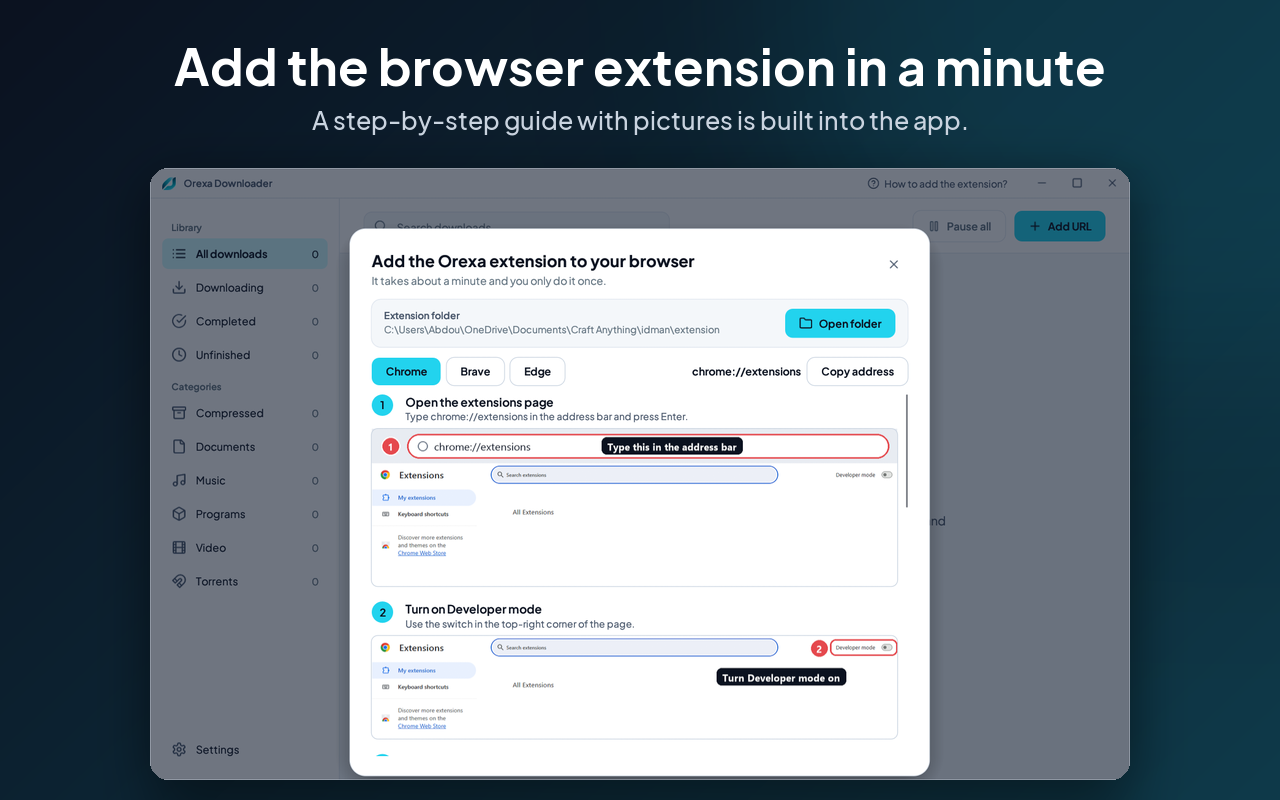
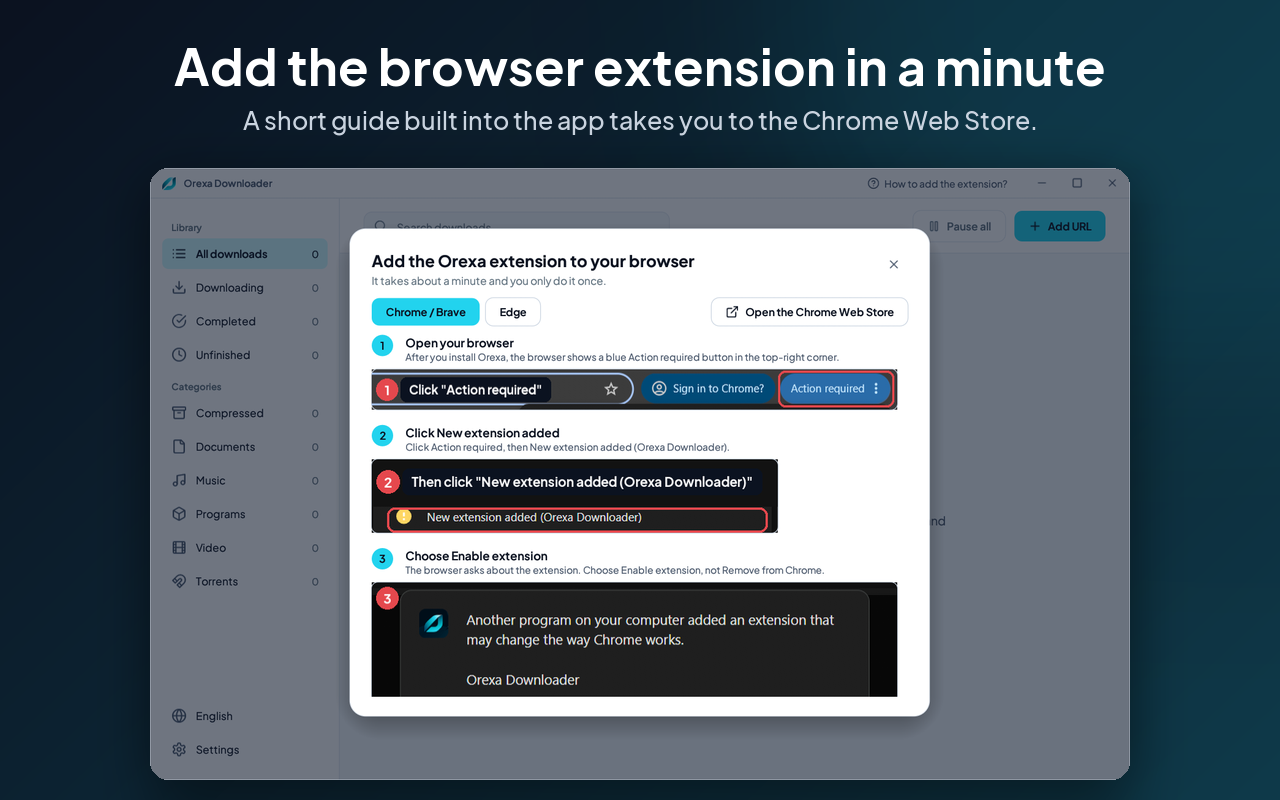
Extension guide follows the browser's own prompts
The "How to add the extension" guide now shows what Chrome, Brave and Edge
really display (Action required / three dots, Enable or Turn on extension,
pin it) and opens the Chrome Web Store. Still version 0.1.7.

Changed region(s): [[0.25, 0.375, 0.75, 1.0], [0.1875, 0.125, 0.8125, 0.1875], [0.125, 0.875, 0.1875, 0.9062]]

diff --git a/app/src/main.rs b/app/src/main.rs
@@ -2470,6 +2470,10 @@ impl App {
             Some("details") => app.details_wait = true,
             Some("details-dl") => app.details_id = app.downloads.iter().find(|d| !d.is_torrent() && d.status == Status::Downloading).map(|d| d.id),
             Some("help") => app.help_open = true,
+            Some("help-edge") => {
+                app.help_open = true;
+                app.help_browser = 1;
+            }
             Some("lang") => app.lang_menu = true,
             // Previews of the waiting states for a YouTube link (no network).
             Some("yt-checking") | Some("yt-idle") => {
@@ -3777,7 +3781,6 @@ impl App {
         let mut open_ext = false;
         let mut open_help = false;
         let mut pick_default_dir = false;
-        let ext_found = extension_dir().is_some();
         let mut area = egui::ScrollArea::vertical().auto_shrink([false, false]);
         if let Some(y) = std::env::var("OREXA_SCROLL").ok().and_then(|v| v.parse::<f32>().ok()) {
             area = area.vertical_scroll_offset(y); // developer aid for screenshots
@@ -4014,14 +4017,10 @@ impl App {
                     line(
                         ui,
                         "Chrome extension",
-                        if ext_found {
-                            "Add it to Chrome, Brave or Edge."
-                        } else {
-                            "Extension folder not found next to the app."
-                        },
+                        "Add it to Chrome, Brave or Edge.",
                         true,
                         &mut |ui| {
-                            if button(ui, p, "Open folder", Some("folder"), Kind::Secondary, 36.0, ext_found).clicked() {
+                            if button(ui, p, "Open the Chrome Web Store", Some("open"), Kind::Secondary, 36.0, true).clicked() {
                                 open_ext = true;
                             }
                             if button(ui, p, "How to add", Some("help"), Kind::Secondary, 36.0, true).clicked() {
@@ -4097,9 +4096,7 @@ impl App {
             });
         });
         if open_ext {
-            if let Some(dir) = extension_dir() {
-                open_path(&dir);
-            }
+            open_store_page();
         }
         if open_help {
             self.help_open = true;
@@ -5534,13 +5531,25 @@ fn trunc_str(s: &str, max: usize) -> String {
     }
 }
 
-/// The tutorial pictures for "How to add the extension" (decoded once).
-const HELP_PICS: [&[u8]; 5] = [
-    include_bytes!("../assets/tutorial/step1_open.png"),
-    include_bytes!("../assets/tutorial/step2_developer.png"),
-    include_bytes!("../assets/tutorial/step3_load.png"),
-    include_bytes!("../assets/tutorial/step4_folder.png"),
-    include_bytes!("../assets/tutorial/step5_done.png"),
+/// The extension's page in the Chrome Web Store (Brave and Edge use it too).
+const STORE_URL: &str = "https://chromewebstore.google.com/detail/lhlfkhkcodflljkapdcpcecapmncjfeh";
+
+/// Open the store page in the default browser.
+fn open_store_page() {
+    let _ = Command::new("explorer").arg(STORE_URL).spawn();
+}
+
+/// The pictures of the guide: the browser's own "new extension added" screens
+/// (0-3 Chrome and Brave, 4-7 Edge).
+const HELP_PICS: [&[u8]; 8] = [
+    include_bytes!("../assets/tutorial/chrome1_action.png"),
+    include_bytes!("../assets/tutorial/chrome2_added.png"),
+    include_bytes!("../assets/tutorial/chrome3_enable.png"),
+    include_bytes!("../assets/tutorial/chrome4_pin.png"),
+    include_bytes!("../assets/tutorial/edge1_dots.png"),
+    include_bytes!("../assets/tutorial/edge2_added.png"),
+    include_bytes!("../assets/tutorial/edge3_turnon.png"),
+    include_bytes!("../assets/tutorial/edge4_pin.png"),
 ];
 
 /// A tutorial picture, resized to the exact pixels it is shown at (sharp on any screen scale).
@@ -5553,6 +5562,8 @@ fn help_picture(ctx: &egui::Context, index: usize, logical_width: f32) -> Option
             .collect()
     });
     let src = all.get(index)?;
+    // Never enlarge a picture past its own size.
+    let logical_width = logical_width.min(src.width() as f32);
     let px_w = ((logical_width * ctx.pixels_per_point()).round() as u32).clamp(16, 2400);
     let px_h = ((px_w as f32) * src.height() as f32 / src.width() as f32).round().max(1.0) as u32;
     let key = egui::Id::new(("help-pic", index, px_w));
@@ -5568,7 +5579,8 @@ fn help_picture(ctx: &egui::Context, index: usize, logical_width: f32) -> Option
 }
 
 impl App {
-    /// "How to add the Chrome extension": the folder, a button to open it, and picture steps.
+    /// "How to add the extension". Chrome and Brave: turn on what the installer offered (or add it
+    /// from the Chrome Web Store). Edge: load the extension folder by hand.
     fn ui_help_dialog(&mut self, ctx: &egui::Context, p: &Pal) {
         if !self.help_open {
             return;
@@ -5577,34 +5589,67 @@ impl App {
             self.help_open = false;
             return;
         }
-        let ext = extension_dir();
-        let browsers: [(&str, &str); 3] = [("Chrome", "chrome://extensions"), ("Brave", "brave://extensions"), ("Edge", "edge://extensions")];
-        let sel = self.help_browser.min(2);
-        let addr = browsers[sel].1;
+        let tabs = ["Chrome / Brave", "Edge"];
+        let sel = self.help_browser.min(1);
+        let edge = sel == 1;
         let mut close = false;
-        let mut open_folder = false;
-        let mut copy_addr = false;
+        let mut open_store = false;
         let mut pick = sel;
         let width = 700.0_f32.min(ctx.screen_rect().width() - 96.0).max(420.0);
         let scroll_h = (ctx.screen_rect().height() - 330.0).clamp(200.0, 560.0);
 
-        let steps: [(&str, String); 5] = [
-            ("Open the extensions page", format!("Type {} in the address bar and press Enter.", addr)),
-            ("Turn on Developer mode", "Use the switch in the top-right corner of the page.".to_string()),
-            ("Click Load unpacked", "A window for choosing a folder opens.".to_string()),
-            (
-                "Choose the extension folder",
-                "Select the folder named \"extension\" (the Open folder button above shows you where it is), then press Select Folder.".to_string(),
-            ),
-            (
-                "Done",
-                "Orexa Downloader now appears in your list. From now on, downloads, videos and magnet links open Orexa's window. Tip: pin it with the puzzle-piece icon.".to_string(),
-            ),
-        ];
+        // (title, text, picture) for each step.
+        let steps: Vec<(&str, String, usize)> = if edge {
+            vec![
+                (
+                    "Open your browser",
+                    "After you install Orexa, open Edge and click the three dots in the top-right corner.".to_string(),
+                    4,
+                ),
+                (
+                    "Click Orexa Downloader extension has been added",
+                    "It is at the top of the menu.".to_string(),
+                    5,
+                ),
+                (
+                    "Choose Turn on extension",
+                    "Edge asks about the extension. Choose Turn on extension, not Remove extension.".to_string(),
+                    6,
+                ),
+                (
+                    "Pin it",
+                    "Click the puzzle-piece icon and pin Orexa Downloader so it is always in reach.".to_string(),
+                    7,
+                ),
+            ]
+        } else {
+            vec![
+                (
+                    "Open your browser",
+                    "After you install Orexa, the browser shows a blue Action required button in the top-right corner.".to_string(),
+                    0,
+                ),
+                (
+                    "Click New extension added",
+                    "Click Action required, then New extension added (Orexa Downloader).".to_string(),
+                    1,
+                ),
+                (
+                    "Choose Enable extension",
+                    "The browser asks about the extension. Choose Enable extension, not Remove from Chrome.".to_string(),
+                    2,
+                ),
+                (
+                    "Pin it",
+                    "Click the puzzle-piece icon and pin Orexa Downloader so it is always in reach.".to_string(),
+                    3,
+                ),
+            ]
+        };
 
         let screen_h = ctx.screen_rect().height();
         modal(ctx, p, "help", width, 640.0, |ui| {
-            ui.set_max_height(screen_h); // the pictures list below needs room to grow
+            ui.set_max_height(screen_h);
             ui.spacing_mut().item_spacing.y = 0.0;
             hrow(ui, |ui| {
                 col(ui, |ui| {
@@ -5619,58 +5664,29 @@ impl App {
                     }
                 });
             });
-            ui.add_space(16.0);
-
-            // Where the extension is, with a button to open it.
-            egui::Frame::none()
-                .fill(p.bg)
-                .stroke(Stroke::new(1.0, p.border))
-                .rounding(12.0)
-                .inner_margin(Margin::symmetric(16.0, 12.0))
-                .show(ui, |ui| {
-                    ui.set_width(ui.available_width());
-                    hrow(ui, |ui| {
-                        col(ui, |ui| {
-                            ui.spacing_mut().item_spacing.y = 2.0;
-                            lbl(ui, "Extension folder", fs(13.0), p.sub);
-                            let path = ext
-                                .as_ref()
-                                .map(|d| d.display().to_string())
-                                .unwrap_or_else(|| "Not found next to the app".to_string());
-                            let g = trunc(ui, &path, f(13.0), p.muted, (width - 250.0).max(120.0));
-                            ui.label(g);
-                        });
-                        ui.with_layout(rl_layout(Align::Center), |ui| {
-                            if button(ui, p, "Open folder", Some("folder"), Kind::Primary, 38.0, ext.is_some()).clicked() {
-                                open_folder = true;
-                            }
-                        });
-                    });
-                });
             ui.add_space(14.0);
 
-            // Which browser, and the address to type.
+            // Which browser.
             hrow(ui, |ui| {
                 ui.spacing_mut().item_spacing.x = 8.0;
-                for (i, (name, _)) in browsers.iter().enumerate() {
+                for (i, name) in tabs.iter().enumerate() {
                     let kind = if i == sel { Kind::Primary } else { Kind::Secondary };
                     if button(ui, p, name, None, kind, 36.0, true).clicked() {
                         pick = i;
                     }
                 }
                 ui.with_layout(rl_layout(Align::Center), |ui| {
-                    if button(ui, p, "Copy address", None, Kind::Secondary, 36.0, true).clicked() {
-                        copy_addr = true;
+                    if button(ui, p, "Open the Chrome Web Store", Some("open"), Kind::Secondary, 36.0, true).clicked() {
+                        open_store = true;
                     }
-                    lbl(ui, addr, fs(14.0), p.text);
                 });
             });
             ui.add_space(12.0);
 
             egui::ScrollArea::vertical().max_height(scroll_h).auto_shrink([false, true]).show(ui, |ui| {
                 let img_w = ui.available_width() - 14.0;
-                for (i, (title, body)) in steps.iter().enumerate() {
-                    ui.horizontal_top(|ui| {
+                for (i, (title, body, pic)) in steps.iter().enumerate() {
+                    hrow(ui, |ui| {
                         let (c, _) = ui.allocate_exact_size(vec2(28.0, 28.0), Sense::hover());
                         ui.painter().circle_filled(c.center(), 14.0, p.accent);
                         ui.painter().txt(c.center(), Align2::CENTER_CENTER, (i + 1).to_string(), fs(14.0), p.accent_ink);
@@ -5682,28 +5698,30 @@ impl App {
                         });
                     });
                     ui.add_space(8.0);
-                    if let Some((tex, size)) = help_picture(ui.ctx(), i, img_w) {
+                    if let Some((tex, size)) = help_picture(ui.ctx(), *pic, img_w) {
                         let (r, _) = ui.allocate_exact_size(size, Sense::hover());
                         ui.painter().image(tex.id(), r, Rect::from_min_max(pos2(0.0, 0.0), pos2(1.0, 1.0)), Color32::WHITE);
                         ui.painter().rect_stroke(r, 8.0, Stroke::new(1.0, p.border_strong));
                     }
                     ui.add_space(20.0);
                 }
-                lbl(ui, "Using Brave or Edge? The steps are the same; only the address at the start differs.", f(12.0), p.muted);
+                lbl(
+                    ui,
+                    if edge {
+                        "Not seeing it? Open the Chrome Web Store with the button above. Edge may first ask to allow extensions from other stores. Choose Allow."
+                    } else {
+                        "Not seeing Action required? Open the Chrome Web Store with the button above and add the extension from there."
+                    },
+                    f(12.0),
+                    p.muted,
+                );
                 ui.add_space(4.0);
             });
         });
 
         self.help_browser = pick;
-        if copy_addr {
-            if let Ok(mut cb) = arboard::Clipboard::new() {
-                let _ = cb.set_text(addr.to_string());
-            }
-        }
-        if open_folder {
-            if let Some(d) = &ext {
-                open_path(d);
-            }
+        if open_store {
+            open_store_page();
         }
         if close {
             self.help_open = false;

diff --git a/app/src/i18n.rs b/app/src/i18n.rs
@@ -270,6 +270,47 @@ fn ar_exact(s: &str) -> Option<&'static str> {
         "Hide details" => "إخفاء التفاصيل",
         "File size" => "حجم الملف",
         "Downloaded" => "تم تنزيل",
+        "Open the Chrome Web Store" => "افتح متجر Chrome الإلكتروني",
+        "Open the store page" => "افتح صفحة المتجر",
+        "Press the button above. The Orexa Downloader page opens in your browser." => "اضغط الزر أعلاه. تفتح صفحة Orexa Downloader في متصفحك.",
+        "Click Add to Chrome" => "انقر على إضافة إلى Chrome",
+        "Press the blue button on that page. In Brave it says Add to Brave." => "اضغط الزر الأزرق في تلك الصفحة. في Brave يظهر باسم إضافة إلى Brave.",
+        "Confirm" => "أكّد",
+        "Choose Add extension in the box that appears." => "اختر إضافة الإضافة في النافذة التي تظهر.",
+        "Orexa Downloader now appears in your extensions. Tip: pin it with the puzzle-piece icon. From now on, downloads, videos and magnet links open in Orexa." => {
+            "ظهر Orexa Downloader الآن في إضافاتك. نصيحة: ثبّته بأيقونة قطعة الأحجية. من الآن ستفتح التنزيلات والفيديوهات وروابط magnet في Orexa."
+        }
+        "Already installed Orexa? Your browser may be asking you to turn the extension on. Choose Enable." => {
+            "ثبّتّ Orexa بالفعل؟ قد يطلب منك متصفحك تفعيل الإضافة. اختر تفعيل."
+        }
+        "Using Edge? It may first ask to allow extensions from other stores. Choose Allow." => {
+            "تستخدم Edge؟ قد يطلب أولًا السماح بإضافات من متاجر أخرى. اختر السماح."
+        }
+        "Chrome / Brave" => "Chrome / Brave",
+        "Open your browser" => "افتح متصفحك",
+        "After you install Orexa, the browser shows a blue Action required button in the top-right corner." => {
+            "بعد تثبيت Orexa، يعرض المتصفح زرًا أزرق بعنوان Action required في الزاوية العلوية اليمنى."
+        }
+        "Click New extension added" => "انقر على New extension added",
+        "Click Action required, then New extension added (Orexa Downloader)." => "انقر على Action required ثم على New extension added (Orexa Downloader).",
+        "Choose Enable extension" => "اختر Enable extension",
+        "The browser asks about the extension. Choose Enable extension, not Remove from Chrome." => {
+            "يسألك المتصفح عن الإضافة. اختر Enable extension وليس Remove from Chrome."
+        }
+        "Pin it" => "ثبّتها",
+        "Click the puzzle-piece icon and pin Orexa Downloader so it is always in reach." => "انقر على أيقونة قطعة الأحجية وثبّت Orexa Downloader ليبقى في متناول يدك.",
+        "Chrome and Brave do not need these steps: the browser offers the extension by itself." => "Chrome وBrave لا يحتاجان هذه الخطوات: المتصفح يعرض الإضافة بنفسه.",
+        "Not seeing Action required? Open the Chrome Web Store with the button above and add the extension from there." => {
+            "لا ترى Action required؟ افتح متجر Chrome الإلكتروني بالزر أعلاه وأضف الإضافة من هناك."
+        }
+        "After you install Orexa, open Edge and click the three dots in the top-right corner." => "بعد تثبيت Orexa افتح Edge وانقر على النقاط الثلاث في الزاوية العلوية اليمنى.",
+        "Click Orexa Downloader extension has been added" => "انقر على Orexa Downloader extension has been added",
+        "It is at the top of the menu." => "تجدها في أعلى القائمة.",
+        "Choose Turn on extension" => "اختر Turn on extension",
+        "Edge asks about the extension. Choose Turn on extension, not Remove extension." => "يسألك Edge عن الإضافة. اختر Turn on extension وليس Remove extension.",
+        "Not seeing it? Open the Chrome Web Store with the button above. Edge may first ask to allow extensions from other stores. Choose Allow." => {
+            "لا تراها؟ افتح متجر Chrome الإلكتروني بالزر أعلاه. قد يطلب Edge أولًا السماح بإضافات من متاجر أخرى. اختر السماح."
+        }
         "Library" => "المكتبة",
         "Categories" => "الفئات",
         "Settings" => "الإعدادات",

diff --git a/extension/README.md b/extension/README.md
@@ -2,16 +2,23 @@
 
 Sends downloads to Orexa Downloader.
 
-## Install (developer mode)
+## Install
 
-1. Install and open Orexa Downloader once (this registers the browser connector).
-2. In Chrome open `chrome://extensions` (Edge: `edge://extensions`).
-3. Turn on **Developer mode**.
-4. Choose **Load unpacked** and pick this `extension` folder. After installing Orexa it is in
-   `C:\Program Files\Orexa Downloader\extension` (Orexa > Settings > **Open folder** opens it).
+Get it from the official
+[Chrome Web Store](https://chromewebstore.google.com/detail/lhlfkhkcodflljkapdcpcecapmncjfeh)
+(Chrome, Brave and Edge). Orexa Downloader must be installed and opened once, which registers the
+browser connector. The installer also offers the extension to your browser, which then asks whether to
+turn it on.
 
-The extension has a fixed ID (`eohagpikpfaoeikeifebabmmchkceeaf`), which is the only one the
-connector accepts.
+### For developers (load the folder)
+
+1. Install and open Orexa Downloader once.
+2. In Chrome open `chrome://extensions` (Edge: `edge://extensions`) and turn on **Developer mode**.
+3. Choose **Load unpacked** and pick this `extension` folder (after installing Orexa it is in
+   `C:\Program Files\Orexa Downloader\extension`).
+
+The connector accepts two extension IDs: the store version (`lhlfkhkcodflljkapdcpcecapmncjfeh`) and the
+one loaded from this folder (`eohagpikpfaoeikeifebabmmchkceeaf`).
 
 ## What it does
 

diff --git a/README.md b/README.md
@@ -59,8 +59,10 @@ video, or open a magnet link, Orexa takes it over, downloads it faster, and keep
    and run it. Anyone can download it; no account is needed. It installs to Program Files and can add a
    desktop shortcut. Running a newer setup on a PC that already has Orexa updates it in place, keeping
    your downloads and settings.
-2. **Add the browser extension.** Click **How to add the extension?** in the app's title bar for a short
-   illustrated guide, or see [`extension/README.md`](extension/README.md).
+2. **Add the browser extension** from the official
+   [Chrome Web Store](https://chromewebstore.google.com/detail/lhlfkhkcodflljkapdcpcecapmncjfeh)
+   (it works in Chrome, Brave and Edge). After installing Orexa, your browser may already ask whether to
+   turn it on: choose **Enable**. Otherwise click **How to add the extension?** in the app's title bar.
 
 Requirements: Windows 10 or 11 (64-bit) and about 40 MB of disk space. The first video download also
 needs an internet connection to fetch the video tools.

diff --git a/CHANGELOG.md b/CHANGELOG.md
@@ -9,6 +9,8 @@ The browser extension is unchanged (still 0.1.6); this update is for the app and
 - The installer's last page tells you to expect that prompt.
 
 ### Improved
+- **The "How to add the extension" guide** now follows what the browser really shows, with screenshots: the Action required button (Chrome and Brave) or the three-dots menu (Edge), then Enable extension or Turn on extension, then pinning it. It also has a button that opens the extension's Chrome Web Store page.
+- Settings → Chrome extension now opens the Chrome Web Store.
 - Uninstalling removes the extension offer from your browsers.
 
 ### Fixed
